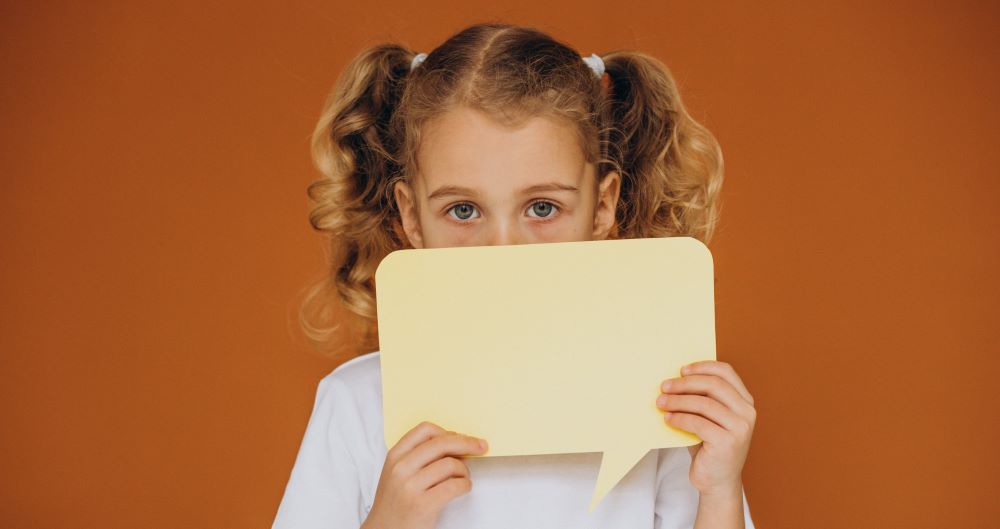
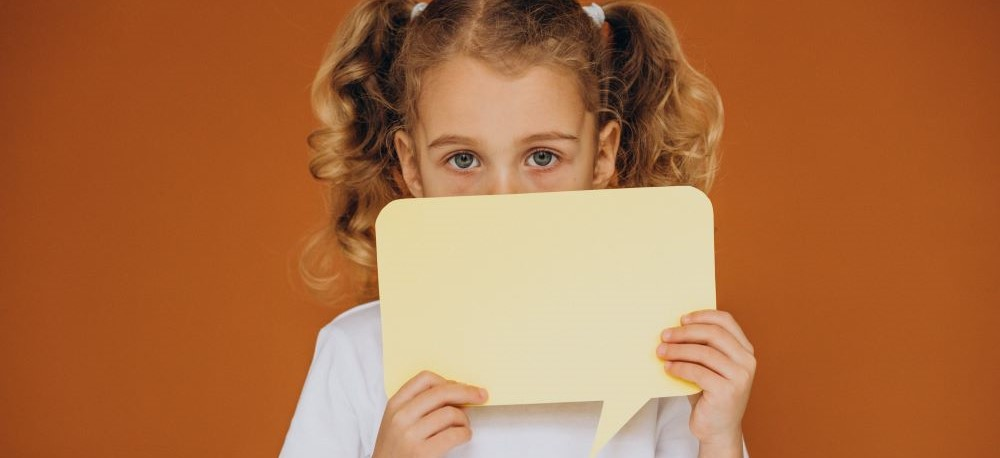
atualizando index e css da pagina intermediario

diff --git a/index.html b/index.html
@@ -48,16 +48,22 @@
             <a href="intermediario.html"
                     style="text-decoration: none;"><button class="botaolink">INTERMEDIÁRIO</button></a>
                     <a href="avancado.html" style="text-decoration: none;"><button class="botaolink">AVANÇADO</button></a>
+
+                    
         </section>
 
 
         <section class="quemsomos">
+
+
             <h1 id="quemsomos">Quem Somos</h1>
             <p class="apresentacao">O projeto Speaking Engish Kids foi elaborado por alunos da disciplina Projeto
                 Integrador do período letivo 2024.2 do curso de Análise e Desenvolvimento de Sistemas da faculdade
                 Unifacisa, com identidade visual própria para o projeto. O principal objetivo foi a criação de um site para o ensino de inglês para crianças.
 
             </p>
+
+
         </section>
 
         <section class="programa">
@@ -93,7 +99,10 @@
                     <img src="assents/dino.png" alt="icon" class="icon">
 
                 </div>
+
+                
         </section>
+       
     </main>
     <footer id="contatos" class="contatos" >
         <strong >Projeto desenvolvido por <a href="https://github.com/JullianeSSousa">@JullianeSSousa</a> e <a href="https://github.com/joaopaulofg">@João Paulo,</a> 2024.</strong>

diff --git a/style3.css b/style3.css
@@ -9,7 +9,7 @@ body{
 
 .container-body{
     font-family:'Segoe UI', Tahoma, Geneva, Verdana, sans-serif;
-    background-image: url(assents/89933.jpg); /*imagem como preenchimento de plano de fundo*/
+    background-image: url(assents/freepik__a-colorful-abstract-space-scene-with-swirling-clou__35377.jpeg); /*imagem como preenchimento de plano de fundo*/
     backdrop-filter: blur(3px);
     background-repeat: no-repeat; 
     background-size:cover; /*Escala a imagem o máximo possível*/
@@ -135,7 +135,7 @@ body{
     border: 3px solid color(white);
     background-image: url(assents/girl-with-headphones-smartphone-blue-background.jpg);
     background-repeat: no-repeat;
-    background-position: center center;
+    background-position: center baseline;
     background-size:cover;
     border-radius: 15px;
     border-style:hidden;
@@ -152,6 +152,17 @@ body{
     border-style:hidden;
 }
 
+
+.post6{
+    padding: 10rem;
+    border: 3px solid color(white);
+    background-image: url(assents/front-view-child-holding-pile-books-copy-space.jpg);
+    background-repeat: no-repeat;
+    background-position: center baseline;
+    background-size:cover;
+    border-radius: 15px;
+    border-style:hidden;
+}
 
 .icones{
     display: flex;

diff --git a/estilo.css b/estilo.css
@@ -8,6 +8,12 @@
 
 body{
     font-family: "Open Sans", serif;
+    background-image: url(assents/24.jpg);
+    position: relative;
+    opacity: 15px;
+    background-repeat: no-repeat; 
+    background-size:cover;
+    scale: 100%;
     
 }
 .sidebar{
@@ -53,13 +59,7 @@ a{
     color:black;
 }
 
-body{
-    background-image: url(assents/24.jpg);
-    position: relative;
-    opacity: 15px;
-    background-repeat: no-repeat; 
-    background-size:cover;
-}
+
 .informacao{
     display: flex;
     flex-direction: column;
@@ -119,7 +119,7 @@ body{
 
 h1{
     padding-top: 5rem;
-    font-size: 34px;
+    font-size: 38px;
     text-align: center;
 }
 
@@ -133,11 +133,13 @@ p{
 /*QUEM SOMOS*/
 
 .quemsomos{
-    background-color: rgba(189, 116, 232, 0.70);
-    width: 100%;
+    background-color: rgba(22, 135, 192, 0.7);
+    padding: 16% 0;
 
 
 }
+
+
 
 .programa{
     background-color: rgba(255, 255, 255, 0.75); 
@@ -159,7 +161,7 @@ p{
 
 
 h2{
-    font-size: 3rem;
+    font-size: 2rem;
     gap: 5rem;
     text-align: center;
 }
@@ -207,6 +209,12 @@ strong{
 @media (max-width: 768px) {
     .sidebar{
         text-align: center;
+    }
+
+    .body{
+        scale: 100%;
+        
+  
     }
 
     .side a.nav-link {
